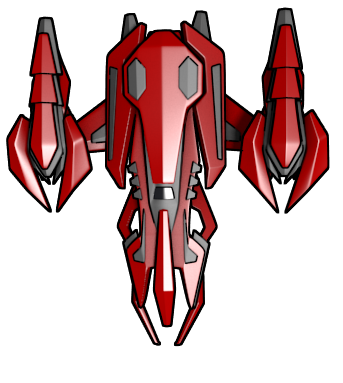
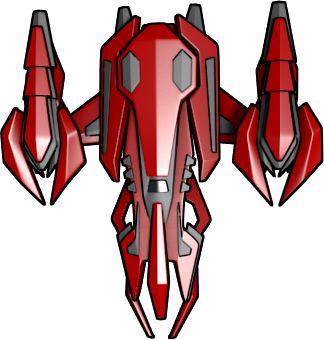
Added imperial implementation, cropped ship images, added hit ship bitmap in enemy

diff --git a/app/src/main/java/me/dylanburton/blastarreborn/PlayScreen.java b/app/src/main/java/me/dylanburton/blastarreborn/PlayScreen.java
@@ -71,7 +71,7 @@ public class PlayScreen extends Screen {
     private int height = 0;
     //bitmap with a rect used for drawing
     private Bitmap starbackground, spaceship[], spaceshipHit[], spaceshipLaser, fighter, fighterOrb, fighterHit, explosion[], gameOverOverlay, playerDiedText, playerWonText,filledstar,emptystar;
-    private Bitmap imperial, imperialHit, berserker, berserkerHit, berserkerReverse, battlecruiser, battlecruiserHit, battleship, battleshipHit;
+    private Bitmap imperial, imperialHit, berserker, berserkerHit, berserkerReverse, battlecruiser, battlecruiserHit, mothership, mothershipHit;
     private Rect scaledDst = new Rect();
 
     //main spaceship
@@ -158,11 +158,8 @@ public class PlayScreen extends Screen {
             battlecruiser = act.getScaledBitmap("enemies/mothership.png");
             battlecruiserHit = act.getScaledBitmap("enemies/mothershiphit.png");
 
-            battleship = act.getScaledBitmap("enemies/battleship.png");
-            battleshipHit = act.getScaledBitmap("enemies/battleshiphit.png");
-
-
-
+            mothership = act.getScaledBitmap("enemies/battleship.png");
+            mothershipHit = act.getScaledBitmap("enemies/battleshiphit.png");
 
             //explosion
             explosion = new Bitmap[12];
@@ -305,7 +302,10 @@ public class PlayScreen extends Screen {
             shipExplosions.add(new ShipExplosion(e.getX() - e.getBitmap().getWidth() * 3 / 4, e.getY() - e.getBitmap().getHeight() / 2, e));
         }else if(e.getEnemyType() == EnemyType.BERSERKER){
             shipExplosions.add(new ShipExplosion(e.getX() + e.getBitmap().getWidth()/3, e.getY() + e.getBitmap().getHeight()/3,e));
+        }else if(e.getEnemyType() == EnemyType.IMPERIAL){
+            shipExplosions.add(new ShipExplosion(e.getX() , e.getY() + e.getBitmap().getHeight()/3,e));
         }
+
         e.setX(10000);
         e.setAIDisabled(true);
         enemiesDestroyed++;
@@ -471,7 +471,7 @@ public class PlayScreen extends Screen {
                             e.setAIStarted(true);
                         }
 
-                        if (e.getEnemyType() == EnemyType.FIGHTER) {
+                        if (e.getEnemyType() == EnemyType.FIGHTER || e.getEnemyType() == EnemyType.IMPERIAL) {
                             for (int i = 0; i < enemiesFlying.size(); i++) {
                                 if ((e != enemiesFlying.get(i))) {
                                     if ((e.getX() >= enemiesFlying.get(i).getX() - enemiesFlying.get(i).getBitmap().getWidth() && e.getX() <= enemiesFlying.get(i).getX() + enemiesFlying.get(i).getBitmap().getWidth()) &&
@@ -714,18 +714,15 @@ public class PlayScreen extends Screen {
 
                         //puts like a red tinge on the enemy for 100 ms if hes hit
                         if (e.isEnemyHitButNotDead()) {
-                            if(e.getEnemyType() == EnemyType.BERSERKER){
-                                c.drawBitmap(berserkerHit, e.getX(), e.getY(), p);
-                            }else if(e.getEnemyType() == EnemyType.FIGHTER) {
-                                c.drawBitmap(fighterHit, e.getX(), e.getY(), p);
-                            }
+
+                            c.drawBitmap(e.getHitBitmap(), e.getX(), e.getY(), p);
 
                             if (e.getHitContactTimeForTinge() + (ONESEC_NANOS / 10) < frtime) {
                                 e.setEnemyIsHitButNotDead(false);
                             }
 
                         } else {
-                            if(e.getEnemyType() == EnemyType.FIGHTER) {
+                            if(e.getEnemyType() != EnemyType.BERSERKER) {
                                 c.drawBitmap(e.getBitmap(), e.getX(), e.getY(), p);
                             }else if(e.getEnemyType() == EnemyType.BERSERKER){
                                 if(e.getVy()>0){
@@ -998,17 +995,17 @@ public class PlayScreen extends Screen {
 
     public void spawnEnemy(EnemyType enemyType){
         if(enemyType == EnemyType.FIGHTER) {
-            enemiesFlying.add(new Fighter(fighter));
+            enemiesFlying.add(new Fighter(fighter, fighterHit));
         }else if(enemyType == EnemyType.IMPERIAL){
-            enemiesFlying.add(new Imperial(imperial));
+            enemiesFlying.add(new Imperial(imperial, imperialHit));
 
         }else if(enemyType == EnemyType.BERSERKER){
-            enemiesFlying.add(new Berserker(berserker));
+            enemiesFlying.add(new Berserker(berserker, berserkerHit));
 
         }else if(enemyType == EnemyType.BATTLESHIP){
-            enemiesFlying.add(new Mothership(battleship));
+            enemiesFlying.add(new Mothership(mothership, mothershipHit));
         }else if(enemyType == EnemyType.BATTLECRUISER){
-            enemiesFlying.add(new Battlecruiser(battlecruiser));
+            enemiesFlying.add(new Battlecruiser(battlecruiser, battlecruiserHit));
         }
     }
 

diff --git a/app/src/main/java/me/dylanburton/blastarreborn/enemies/Enemy.java b/app/src/main/java/me/dylanburton/blastarreborn/enemies/Enemy.java
@@ -19,6 +19,7 @@ public class Enemy extends Ship {
     private final float HALF_DIVISOR = 1.9f;  //changing the dimensions to be consistent
     private EnemyType enemyType;
     private Bitmap btm;
+    private Bitmap btmHit;
     private float vx=0;
     private float vy=0;
     private int points;
@@ -58,9 +59,10 @@ public class Enemy extends Ship {
 
     }
 
-    public Enemy(Bitmap bitmap, EnemyType enemyType) {
+    public Enemy(Bitmap bitmap, Bitmap btmHit, EnemyType enemyType) {
         setX(0);
         setY(500);
+        this.btmHit = btmHit;
         this.btm = bitmap;
         this.width = bitmap.getWidth();
         this.height = bitmap.getHeight();
@@ -74,6 +76,8 @@ public class Enemy extends Ship {
     public Bitmap getBitmap(){
         return btm;
     }
+    public Bitmap getHitBitmap(){ return btmHit;}
+    public void setHitBitmap(Bitmap btmHit){ this.btmHit = btmHit;}
     public boolean hasCollision(float collx, float colly) {
         return getBounds().contains((int) collx, (int) colly);
     }

diff --git a/app/src/main/java/me/dylanburton/blastarreborn/enemies/Fighter.java b/app/src/main/java/me/dylanburton/blastarreborn/enemies/Fighter.java
@@ -17,9 +17,9 @@ import me.dylanburton.blastarreborn.lasers.ShipLaser;
  */
 public class Fighter extends Enemy {
     private static final int RANDOM_DIRECTION_SPEED = 10000;
-    public Fighter(Bitmap shipBitmap) {
+    public Fighter(Bitmap shipBitmap, Bitmap shipHit) {
         //calls main Enemy constructor
-        super(shipBitmap, EnemyType.FIGHTER);
+        super(shipBitmap, shipHit, EnemyType.FIGHTER);
 
     }
 

diff --git a/app/src/main/java/me/dylanburton/blastarreborn/enemies/Battlecruiser.java b/app/src/main/java/me/dylanburton/blastarreborn/enemies/Battlecruiser.java
@@ -8,9 +8,9 @@ import android.graphics.Bitmap;
 
 public class Battlecruiser extends Enemy {
     private int RANDOM_DIRECTION_SPEED = 3000;
-    public Battlecruiser(Bitmap shipBitmap){
+    public Battlecruiser(Bitmap shipBitmap, Bitmap btmHit){
         //calls main Enemy constructor
-        super(shipBitmap, EnemyType.BATTLECRUISER);
+        super(shipBitmap, btmHit, EnemyType.BATTLECRUISER);
 
     }
 

diff --git a/app/src/main/java/me/dylanburton/blastarreborn/enemies/Mothership.java b/app/src/main/java/me/dylanburton/blastarreborn/enemies/Mothership.java
@@ -10,9 +10,9 @@ public class Mothership extends Enemy {
 
     private static final int RANDOM_DIRECTION_SPEED = 5000;
 
-    public Mothership(Bitmap shipBitmap){
+    public Mothership(Bitmap shipBitmap, Bitmap btmHit){
         //calls main Enemy constructor
-        super(shipBitmap, EnemyType.BATTLESHIP);
+        super(shipBitmap, btmHit, EnemyType.BATTLESHIP);
 
     }
 

diff --git a/app/src/main/java/me/dylanburton/blastarreborn/enemies/Berserker.java b/app/src/main/java/me/dylanburton/blastarreborn/enemies/Berserker.java
@@ -14,8 +14,8 @@ public class Berserker extends Enemy {
     private long updateVelocityTime;
     private long lastAccelerationTime;
 
-    public Berserker(Bitmap shipBitmap){
-        super(shipBitmap, EnemyType.BERSERKER);
+    public Berserker(Bitmap shipBitmap, Bitmap btmHit){
+        super(shipBitmap, btmHit, EnemyType.BERSERKER);
         hs = new HeatSinker();
 
 

diff --git a/app/src/main/java/me/dylanburton/blastarreborn/enemies/Imperial.java b/app/src/main/java/me/dylanburton/blastarreborn/enemies/Imperial.java
@@ -9,8 +9,8 @@ import android.graphics.Bitmap;
 public class Imperial extends Enemy {
     private static final int RANDOM_DIRECTION_SPEED = 8000;
 
-    public Imperial(Bitmap bmp){
-        super(bmp,EnemyType.IMPERIAL);
+    public Imperial(Bitmap bmp, Bitmap bmpHit){
+        super(bmp,bmpHit,EnemyType.IMPERIAL);
     }
 
     @Override

diff --git a/app/src/main/java/me/dylanburton/blastarreborn/levels/Level1.java b/app/src/main/java/me/dylanburton/blastarreborn/levels/Level1.java
@@ -41,7 +41,7 @@ public class Level1 extends Level{
                 for (int i = 0; i < 3; i++) {
                     ps.spawnEnemy(EnemyType.FIGHTER);
                 }
-                ps.spawnEnemy(EnemyType.BERSERKER);
+                ps.spawnEnemy(EnemyType.IMPERIAL);
             }
 
             updateCheckerBoundary = 2;
